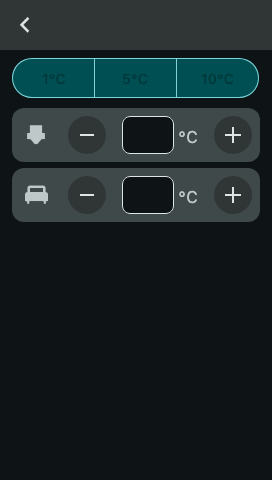
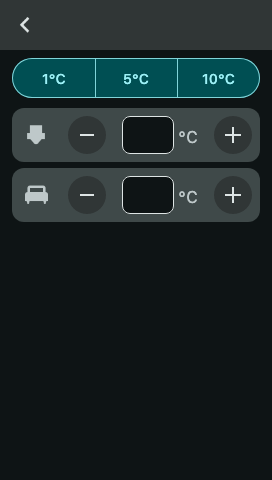
Update temp settings screens

diff --git a/dev-resources/design/composeApp/src/commonMain/kotlin/AdjustFilamentScreen.kt b/dev-resources/design/composeApp/src/commonMain/kotlin/AdjustFilamentScreen.kt
@@ -6,6 +6,7 @@ import androidx.compose.foundation.layout.Arrangement
 import androidx.compose.foundation.layout.Box
 import androidx.compose.foundation.layout.Column
 import androidx.compose.foundation.layout.Row
+import androidx.compose.foundation.layout.Spacer
 import androidx.compose.foundation.layout.fillMaxSize
 import androidx.compose.foundation.layout.fillMaxWidth
 import androidx.compose.foundation.layout.height
@@ -18,7 +19,10 @@ import androidx.compose.material3.FilledTonalButton
 import androidx.compose.material3.FilledTonalIconButton
 import androidx.compose.material3.IconButtonDefaults
 import androidx.compose.material3.MaterialTheme
+import androidx.compose.material3.MultiChoiceSegmentedButtonRow
 import androidx.compose.material3.Scaffold
+import androidx.compose.material3.SegmentedButton
+import androidx.compose.material3.SegmentedButtonDefaults
 import androidx.compose.material3.Text
 import androidx.compose.runtime.Composable
 import androidx.compose.ui.Alignment
@@ -29,11 +33,15 @@ import androidx.compose.ui.unit.dp
 import openneptune.composeapp.generated.resources.Res
 import openneptune.composeapp.generated.resources.bed
 import openneptune.composeapp.generated.resources.extruder
+import openneptune.composeapp.generated.resources.load
+import openneptune.composeapp.generated.resources.minus
+import openneptune.composeapp.generated.resources.plus
 import openneptune.composeapp.generated.resources.power
+import openneptune.composeapp.generated.resources.unload
 import org.jetbrains.compose.resources.painterResource
 
 @Composable
-private fun TempInputRow(icon: Painter) {
+private fun TempInputRow(icon: Painter? = null, showPlusMinusButtons: Boolean = false, buttonState: String) {
     Row(
         verticalAlignment = Alignment.CenterVertically,
         horizontalArrangement = Arrangement.spacedBy(4.dp),
@@ -42,12 +50,32 @@ private fun TempInputRow(icon: Painter) {
             shape = MaterialTheme.shapes.medium
         ).padding(horizontal = 8.dp, vertical = 4.dp)
     ) {
-        Image(
-            painter = icon,
-            null,
-            modifier = Modifier.size(32.dp),
-            colorFilter = ColorFilter.tint(MaterialTheme.colorScheme.onSurfaceVariant)
-        )
+        if (icon != null) {
+            Image(
+                painter = icon,
+                null,
+                modifier = Modifier.size(32.dp),
+                colorFilter = ColorFilter.tint(MaterialTheme.colorScheme.onSurfaceVariant)
+            )
+        }
+        if (showPlusMinusButtons) {
+            FilledTonalIconButton(
+                onClick = {},
+                colors = IconButtonDefaults.filledTonalIconButtonColors(
+                    containerColor = if (buttonState == "pressed") MaterialTheme.colorScheme.surfaceContainerHighest.copy(
+                        alpha = 0.8f
+                    ) else MaterialTheme.colorScheme.surfaceContainerHighest
+                ),
+                modifier = Modifier
+                    .size(38.dp)
+            ) {
+                Icon(
+                    painterResource(Res.drawable.minus),
+                    MaterialTheme.colorScheme.onSurface,
+                    24.dp
+                )
+            }
+        }
         Box(
             modifier = Modifier
                 .padding(start = 12.dp)
@@ -56,15 +84,37 @@ private fun TempInputRow(icon: Painter) {
                 .border(1.dp, MaterialTheme.colorScheme.onSurface, MaterialTheme.shapes.small)
                 .weight(1f).height(38.dp)
         ) {}
-        Text(
-            "°C",
-            color = MaterialTheme.colorScheme.onSurfaceVariant,
-            modifier = Modifier
-        )
+
+        if (showPlusMinusButtons) {
+            FilledTonalIconButton(
+                onClick = {},
+                colors = IconButtonDefaults.filledTonalIconButtonColors(
+                    containerColor = if (buttonState == "pressed") MaterialTheme.colorScheme.surfaceContainerHighest.copy(
+                        alpha = 0.8f
+                    ) else MaterialTheme.colorScheme.surfaceContainerHighest
+                ),
+                modifier = Modifier
+                    .size(38.dp)
+            ) {
+                Icon(
+                    painterResource(Res.drawable.plus),
+                    MaterialTheme.colorScheme.onSurface,
+                    24.dp
+                )
+            }
+        } else {
+            Text(
+                "°C",
+                color = MaterialTheme.colorScheme.onSurfaceVariant,
+                modifier = Modifier
+            )
+        }
         FilledTonalIconButton(
             onClick = {},
             colors = IconButtonDefaults.filledTonalIconButtonColors(
-                containerColor = MaterialTheme.colorScheme.surfaceContainerHighest
+                containerColor = if (buttonState == "pressed") MaterialTheme.colorScheme.surfaceContainerHighest.copy(
+                    alpha = 0.8f
+                ) else MaterialTheme.colorScheme.surfaceContainerHighest
             ),
             modifier = Modifier
                 .padding(start = 12.dp)
@@ -81,6 +131,7 @@ private fun TempInputRow(icon: Painter) {
 }
 
 
+@OptIn(ExperimentalMaterial3Api::class)
 @Composable
 fun AdjustFilamentScreen(showSecondBed: Boolean = false, buttonState: String = "") {
     OpenNeptuneScreen {
@@ -102,11 +153,93 @@ fun AdjustFilamentScreen(showSecondBed: Boolean = false, buttonState: String = "
                     .padding(horizontal = 12.dp, vertical = 6.dp)
                     .fillMaxSize()
             ) {
+                val backgroundColor = if (buttonState == "pressed") {
+                    MaterialTheme.colorScheme.surfaceVariant
+                } else {
+                    MaterialTheme.colorScheme.surface
+                }
+                MultiChoiceSegmentedButtonRow(modifier = Modifier.fillMaxWidth()) {
+                    SegmentedButton(
+                        buttonState == "active",
+                        {},
+                        shape = SegmentedButtonDefaults.itemShape(0, 3),
+                        icon = {},
+                        colors = SegmentedButtonDefaults.colors(
+                            activeBorderColor = MaterialTheme.colorScheme.primary,
+                            inactiveBorderColor = MaterialTheme.colorScheme.primary,
+                            activeContainerColor = MaterialTheme.colorScheme.primaryContainer,
+                            activeContentColor = MaterialTheme.colorScheme.onPrimaryContainer,
+                            inactiveContainerColor = backgroundColor
+                        )
+                    ) {
+                        Icon(Res.drawable.extruder, if (buttonState == "active") MaterialTheme.colorScheme.onPrimaryContainer else MaterialTheme.colorScheme.onSurface, 24.dp)
+                    }
+                    SegmentedButton(
+                        buttonState == "active",
+                        {}, shape = SegmentedButtonDefaults.itemShape(1, 3),
+                        icon = {},
+                        colors = SegmentedButtonDefaults.colors(
+                            activeBorderColor = MaterialTheme.colorScheme.primary,
+                            inactiveBorderColor = MaterialTheme.colorScheme.primary,
+                            activeContainerColor = MaterialTheme.colorScheme.primaryContainer,
+                            activeContentColor = MaterialTheme.colorScheme.onPrimaryContainer,
+                            inactiveContainerColor = backgroundColor
+                        )
+                    ) {
+                        Icon(Res.drawable.bed, if (buttonState == "active") MaterialTheme.colorScheme.onPrimaryContainer else MaterialTheme.colorScheme.onSurface, 24.dp)
+                    }
+                    SegmentedButton(
+                        buttonState == "active",
+                        {}, shape = SegmentedButtonDefaults.itemShape(2, 3),
+                        icon = {},
+                        colors = SegmentedButtonDefaults.colors(
+                            activeBorderColor = MaterialTheme.colorScheme.primary,
+                            inactiveBorderColor = MaterialTheme.colorScheme.primary,
+                            activeContainerColor = MaterialTheme.colorScheme.primaryContainer,
+                            activeContentColor = MaterialTheme.colorScheme.onPrimaryContainer,
+                            inactiveContainerColor = backgroundColor
+                        )
+                    ) {
+                        Icon(Res.drawable.bed, if (buttonState == "active") MaterialTheme.colorScheme.onPrimaryContainer else MaterialTheme.colorScheme.onSurface, 24.dp)
+                    }
+                }
+                Spacer(modifier = Modifier.height(12.dp))
+                TempInputRow(showPlusMinusButtons = true, buttonState = buttonState)
+                Spacer(modifier = Modifier.weight(1f))
                 Row(verticalAlignment = Alignment.CenterVertically, horizontalArrangement = Arrangement.SpaceEvenly, modifier = Modifier.fillMaxWidth()) {
                     TempDisplay(painterResource(Res.drawable.extruder))
                     TempDisplay(painterResource(Res.drawable.bed))
                     if (showSecondBed) {
                         TempDisplay(painterResource(Res.drawable.bed))
+                    }
+                }
+                Row(verticalAlignment = Alignment.CenterVertically, horizontalArrangement = Arrangement.SpaceBetween, modifier = Modifier.fillMaxWidth()) {
+                    FilledTonalButton(
+                        onClick = {},
+                        colors = ButtonDefaults.filledTonalButtonColors(
+                            containerColor = buttonBackgroud,
+                            contentColor = MaterialTheme.colorScheme.onPrimaryContainer
+                        ),
+                        modifier = Modifier.weight(1f).padding(4.dp)
+                    ) {
+                        Icon(Res.drawable.load, MaterialTheme.colorScheme.onPrimaryContainer, 24.dp)
+                        Spacer(modifier = Modifier.weight(1f))
+                    }
+                    Spacer(modifier = Modifier.width(8.dp))
+                    FilledTonalButton(
+                        onClick = {},
+                        colors = ButtonDefaults.filledTonalButtonColors(
+                            containerColor = buttonBackgroud,
+                            contentColor = MaterialTheme.colorScheme.onPrimaryContainer
+                        ),
+                        modifier = Modifier.weight(1f).padding(4.dp)
+                    ) {
+                        Icon(
+                            Res.drawable.unload,
+                            MaterialTheme.colorScheme.onPrimaryContainer,
+                            24.dp
+                        )
+                        Spacer(modifier = Modifier.weight(1f))
                     }
                 }
             }

diff --git a/dev-resources/design/composeApp/src/commonMain/kotlin/TempSettingsScreen.kt b/dev-resources/design/composeApp/src/commonMain/kotlin/TempSettingsScreen.kt
@@ -123,7 +123,7 @@ fun TempSettingsScreen(showSecondHotbed: Boolean, buttonState: String = "") {
                 } else {
                     MaterialTheme.colorScheme.surface
                 }
-                MultiChoiceSegmentedButtonRow {
+                MultiChoiceSegmentedButtonRow(modifier = Modifier.fillMaxWidth()) {
                     SegmentedButton(
                         buttonState == "active",
                         {},
@@ -133,7 +133,7 @@ fun TempSettingsScreen(showSecondHotbed: Boolean, buttonState: String = "") {
                             activeBorderColor = MaterialTheme.colorScheme.primary,
                             inactiveBorderColor = MaterialTheme.colorScheme.primary,
                             activeContainerColor = MaterialTheme.colorScheme.primaryContainer,
-                            activeContentColor = MaterialTheme.colorScheme.onPrimary,
+                            activeContentColor = MaterialTheme.colorScheme.onPrimaryContainer,
                             inactiveContainerColor = backgroundColor
                         )
                     ) {
@@ -147,7 +147,7 @@ fun TempSettingsScreen(showSecondHotbed: Boolean, buttonState: String = "") {
                             activeBorderColor = MaterialTheme.colorScheme.primary,
                             inactiveBorderColor = MaterialTheme.colorScheme.primary,
                             activeContainerColor = MaterialTheme.colorScheme.primaryContainer,
-                            activeContentColor = MaterialTheme.colorScheme.onPrimary,
+                            activeContentColor = MaterialTheme.colorScheme.onPrimaryContainer,
                             inactiveContainerColor = backgroundColor
                         )
                     ) {
@@ -161,7 +161,7 @@ fun TempSettingsScreen(showSecondHotbed: Boolean, buttonState: String = "") {
                             activeBorderColor = MaterialTheme.colorScheme.primary,
                             inactiveBorderColor = MaterialTheme.colorScheme.primary,
                             activeContainerColor = MaterialTheme.colorScheme.primaryContainer,
-                            activeContentColor = MaterialTheme.colorScheme.onPrimary,
+                            activeContentColor = MaterialTheme.colorScheme.onPrimaryContainer,
                             inactiveContainerColor = backgroundColor
                         )
                     ) {

diff --git a/dev-resources/design/composeApp/src/commonMain/kotlin/Icon.kt b/dev-resources/design/composeApp/src/commonMain/kotlin/Icon.kt
@@ -5,6 +5,7 @@ import androidx.compose.runtime.Composable
 import androidx.compose.ui.Modifier
 import androidx.compose.ui.graphics.Color
 import androidx.compose.ui.graphics.ColorFilter
+import androidx.compose.ui.graphics.painter.Painter
 import androidx.compose.ui.unit.Dp
 import androidx.compose.ui.unit.dp
 import openneptune.composeapp.generated.resources.Res
@@ -15,6 +16,10 @@ import org.jetbrains.skia.Drawable
 
 @Composable
 fun Icon(drawable: DrawableResource, color: Color, size: Dp) {
-    Image(
-        painterResource(drawable), null, modifier = Modifier.size(size), colorFilter = ColorFilter.tint(color))
+    Icon(painterResource(drawable), color, size)
+}
+
+@Composable
+fun Icon(painter: Painter, color: Color, size: Dp) {
+    Image(painter, null, modifier = Modifier.size(size), colorFilter = ColorFilter.tint(color))
 }

diff --git a/dev-resources/design/composeApp/src/commonMain/kotlin/TempScreen.kt b/dev-resources/design/composeApp/src/commonMain/kotlin/TempScreen.kt
@@ -91,11 +91,10 @@ fun TempDisplay(icon: Painter) {
                 .width(60.dp)
         ) {}
         Text("", modifier = Modifier.height(20.dp))
-        Image(
+        Icon(
             icon,
-            null,
-            modifier = Modifier.size(32.dp),
-            colorFilter = ColorFilter.tint(MaterialTheme.colorScheme.onSurface)
+            MaterialTheme.colorScheme.onSurface,
+            32.dp
         )
     }
 }
